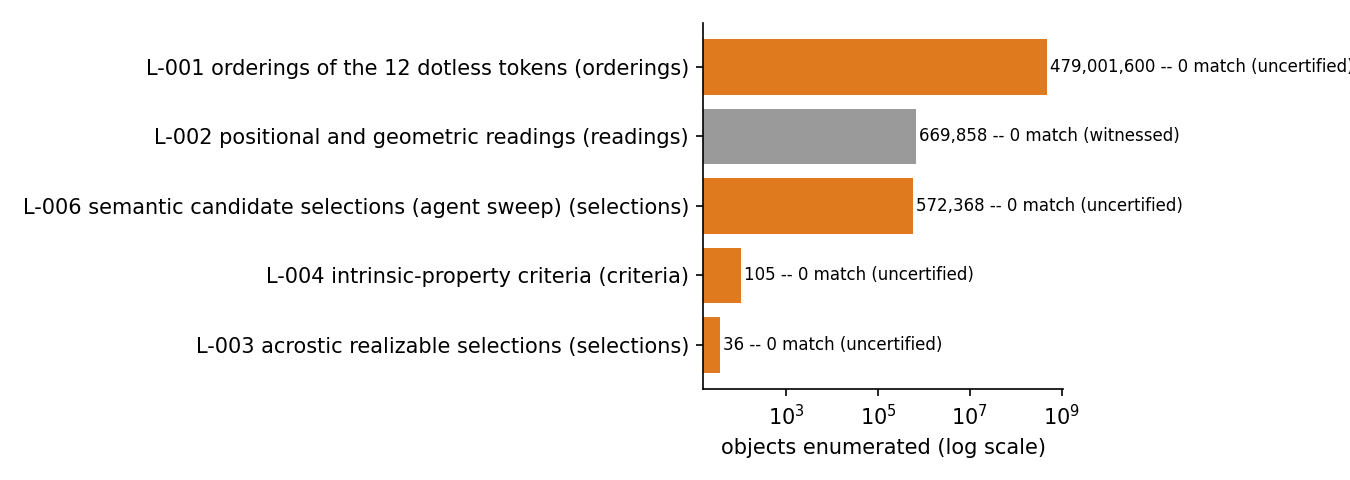
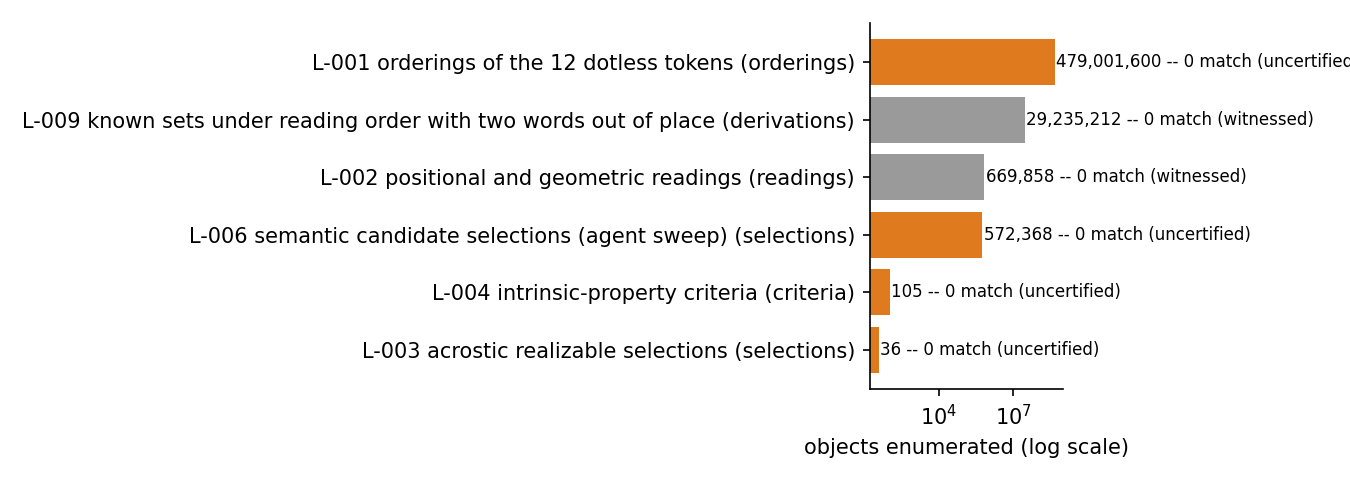
keysa-crack-the-seed: the author's 2023-06-27 replies (all but two words in order, the lock is the selection); 2,084,778 known sets replayed under that order model, 0 match with witnesses; leads re-ranked

diff --git a/2-mid-prizes/keysa-crack-the-seed-369ksats/README.md b/2-mid-prizes/keysa-crack-the-seed-369ksats/README.md
@@ -10,7 +10,9 @@ and unspent 3 years later. The derivation (12 words in the right order to a BIP8
 address) is fully understood and certified. What is missing is the selection rule
 that picks 12 words out of 70: I have exhausted every mechanical and positional
 reading I could enumerate, all negative, and the author's own words point toward a
-short, spoken rule rather than a hidden calculation.
+short, spoken rule rather than a hidden calculation. Her replies of 2023-06-27, which
+I only read on 2026-08-16, settle the order: the 12 words sit on the card in seed order
+except for two, so the whole puzzle is the selection.
 
 ## At a glance
 
@@ -46,6 +48,15 @@ that the wallet was generated by BlueWallet rather than by manual dice rolls
 ("I've never rolled 12 words," 2025-03-05). As late as 2024-11-12 she confirmed the
 prize was still unclaimed: "many tried but so far the sats are still there." Short,
 dated quotes with links are in [clues/author-posts.md](clues/author-posts.md).
+
+Two replies she posted on 2023-06-27, two levels down in the thread under her original
+post, carry the one order statement she has made. At 13:24 UTC: "in this example one
+still wouldn't know which of all those words are the 12 words in the seed phrase
+right?" At 13:32 UTC: "In this example, all the words but two, are in order ;)". The
+same afternoon she added that the 58 decoys are BIP39 words "because the anon set
+would decrease if one includes words not on the list". I read these on 2026-08-16;
+every sweep before that date had assumed either the card order, its reverse, or an
+arbitrary order, and none had tested a reading order with two words out of place.
 
 ![The ciphertext card above a rendered transcription of its 70 tokens in 6 rows, with the 12 dotless tokens outlined](images/01-annotated-card-grid.png)
 *Figure 1. The published card and my transcription of its 70 tokens, with the 12 dotless tokens outlined (source: data/card-tokens.txt, script tools/fig_card_grid.py), 2026-08-16.*
@@ -110,6 +121,11 @@ both correctly rejected. Reproduced 2026-08-16.
 6. The checksum passes at the expected background rate (about 1 in 16) across every
    sweep run against this token set, confirming no bias in the derivation pipeline
    and confirming the checksum cannot discriminate a correct selection here.
+7. The order of the seed is the card's reading order of the 12 selected tokens, except
+   for two words (Keysa, 2023-06-27, `clues/author-posts.md`). That replaces 12! orders
+   per candidate set by 67 (reading order plus one transposition) or about 6,100
+   (reading order with up to two words moved), and puts the whole difficulty on the
+   selection.
 
 ## What has been tested
 
@@ -122,32 +138,42 @@ Full ledger in [analysis/tested.md](analysis/tested.md). Summary:
 | Semantic and mnemonic candidate selections (L-006) | 572,368 selections (439,773 distinct sets) | agent-driven candidate proposals under 114 labeled families, checked against the oracle | 0 match | uncertified: no single search order to plant a witness in | 2026-08-02 |
 | Intrinsic token properties, including 3-6-9 digital roots (L-004) | 105 criteria | test whether any criterion partitions the 70 tokens into exactly 12 | no criterion reaches 12 (closest: 11 or 13) | uncertified: structural computation, not an oracle sweep | 2026-08-02 |
 | Acrostic (initials spell a word) (L-003) | 1,723 composable 12-letter words | subsequence test against the 70 initials | 36 realizable, 0 match | uncertified: self-tested but no formal witness | 2026-08-02 |
+| Every candidate set proposed so far (2,084,778 distinct sets: the positional rules, 8 further positional families, the natural sets, and the whole L-006 agent wave) under reading order plus one transposition, 67 orders each (L-009) | 139,680,327 sequences, 8,730,698 checksum-valid | BIP84 derive and compare | 0 match | yes: 3 synthetic sets with a pre-derived target planted at head, middle and tail, recovered | 2026-08-16 |
+| The 31,088 natural sets (rows, row edges, dotless tokens, windows, column pairs, sub-grids, progressions) under reading order with up to 2 words moved anywhere, about 6,100 orders each (L-009) | 188,500,763 sequences, 11,775,450 checksum-valid | BIP84 derive and compare | 0 match | yes | 2026-08-16 |
+| The same 2,084,778 sets under reversed reading order plus one transposition (L-009) | 139,680,327 sequences, 8,729,064 checksum-valid | BIP84 derive and compare | 0 match | yes | 2026-08-16 |
 
-Cumulative: about 480 million objects enumerated across 5 families (mixed units:
-orderings, readings, selections, criteria, acrostic candidates), 0 matches.
+Cumulative: about 480 million objects enumerated across 5 families through 2026-08-02
+(mixed units: orderings, readings, selections, criteria, acrostic candidates), plus
+468 million ordered sequences and 29.2 million checksum-valid derivations on
+2026-08-16 under the two-words-out-of-order model, 0 matches. Under that model every
+candidate set this folder has ever produced is negative; the selection rule is not
+in any family formulated so far.
 
 ![Horizontal log-scale bars for the 5 tested-hypothesis families, colored by witness status](images/02-coverage-tested-space.png)
-*Figure 2. Coverage of the 5 tested hypothesis families, sized by objects enumerated and colored by witness status (source: data/coverage.csv, script tools/fig_coverage.py), 2026-08-16.*
+*Figure 2. Coverage of the 6 tested hypothesis families, sized by objects enumerated and colored by witness status (source: data/coverage.csv, script tools/fig_coverage.py), 2026-09-03.*
 
 ## Open leads, ranked
 
 1. **Write to the author** (needs a person). Keysa is active and has twice invited
    exactly this: "I would love to know if this method is solid" and "Open to
-   comments." Near zero cost, highest plausible payoff, since the rule is described
-   as short and meant to be spoken aloud.
-2. **Submit argued candidate 12-word orderings** (minutes per candidate set on a
-   rented GPU). Under her own post, a reader frames the puzzle around word order
-   rather than selection, and Keysa's reply engages with counting permutations
-   rather than correcting the framing. Checking one full 12! ordering sweep for a
-   well-argued candidate set costs about 38 seconds on a rented GPU; the bottleneck
-   is proposing the candidate set, not the derivation.
-3. **The two-tokens-per-row bounded sweep** (about 76 minutes on one rented GPU).
-   With the 6 rows confirmed authorial, picking exactly 2 tokens per row gives about
-   3.6 billion candidates after the BIP39 checksum filter, at a measured rate of
-   about 790,000 derivations per second.
-4. **The double-width gap after "mad," and the "369 clock" theme** (needs new
-   information). The only typographic anomaly on the card, and a real anchor in the
-   author's own book, neither of which has produced a working selector yet.
+   comments." Two precise questions now exist: are the two out-of-order words swapped
+   with each other, or each moved somewhere else on the card; and does the "cipher"
+   she tells a trusted person describe positions on the card or the meaning of the
+   words.
+2. **A new selection family, replayed under the two-words-out-of-order model**
+   (minutes on a CPU). Every set proposed so far, 2,084,778 distinct sets, is negative
+   under reading order plus one transposition, and the 31,088 natural sets under up
+   to two moved words. Any new family of candidate sets costs milliseconds per set to
+   replay; the whole cost is in proposing sets the card supports.
+3. **The double-width gap after "mad," and the "369 clock" theme** (needs new
+   information). The gap is the only typographic anomaly on the card and is what a
+   cut-and-paste that moved two words would leave; no selector has come out of either
+   observation.
+4. **Two tokens per row, under the corrected order model** (days on a rented GPU; not
+   proposed as is). The row family is legitimate (the 6 rows are typed), but 5.7e10
+   sets times 67 orders is about 2.4e11 derivations after the checksum filter, about
+   3.5 days at 790,000 derivations/s, and the author's words argue for a rule on the
+   selection rather than a blind row sweep. It needs a row rule first.
 
 ## Files in this folder
 
@@ -170,4 +196,7 @@ orderings, readings, selections, criteria, acrostic candidates), 0 matches.
 
 - Keysa, original announcement, X, 2023-06-26: https://x.com/SimplestBTCBook/status/1673197111603519490
 - Keysa on Nostr: https://njump.me/npub1dpna3xwwddnhhzg9ycpvlcz2ze0jdwm2rf3eqd2lf9leaewtq7tqhw0ef2
+- Keysa, reply "all the words but two, are in order", X, 2023-06-27: https://x.com/SimplestBTCBook/status/1673685712498049025
+- Keysa, reply "one still wouldn't know which of all those words are the 12", X, 2023-06-27: https://x.com/SimplestBTCBook/status/1673683632546873344
+- Keysa, reply "these are all BIP 39 words, because the anon set would decrease", X, 2023-06-27: https://x.com/SimplestBTCBook/status/1673720563318112256
 - "The Simplest Bitcoin Book Ever Written," Keysa: https://simplestbitcoinbook.com

diff --git a/2-mid-prizes/keysa-crack-the-seed-369ksats/analysis/leads.md b/2-mid-prizes/keysa-crack-the-seed-369ksats/analysis/leads.md
@@ -19,49 +19,43 @@ What would kill it: no reply, or a reply that does not narrow anything (she has
 stated before that she does not want to spoil the puzzle for others).
 Cost: needs a person; no compute cost.
 
-## 2. Submit argued candidate 12-word orderings (the "order, not selection" reading)
+## 2. A new selection family, replayed under the two-words-out-of-order model
 
-Under the original announcement, a reader frames the puzzle's difficulty in terms of
-knowing the 12 words but not their order ("620 quintillion guesses even if they knew
-the exact 24 words, but not the correct order"). Keysa's own reply engages with
-counting permutations for a 12-word case rather than correcting the framing to
-"you would first need to know which 12 words." Read together with her stated design
-goal (a rule short enough to say out loud), this suggests her own mental model may
-treat the selection as easier to work out than the order.
+The earlier version of this lead read the puzzle as "order, not selection", on the
+strength of Keysa engaging with a reader's permutation count. Her own replies two
+levels down in the same thread say the opposite (`clues/author-posts.md`,
+2023-06-27): "one still wouldn't know which of all those words are the 12", and "all
+the words but two, are in order". So the order is the card's reading order up to two
+words, and the lock is the selection.
 
-The practical consequence: for any well-argued candidate set of 12 tokens, checking
-every one of its 12! = 479,001,600 orderings costs about 38 seconds on a rented GPU
-(measured at about 0.79 million derivations per second), against 36.8 minutes on a
-CPU for the one set already tried in full (L-001, `analysis/tested.md`). The
-bottleneck for this lead is producing a well-reasoned candidate set of 12 tokens,
-not the permutation search itself.
+Under that model every candidate set this folder has ever produced is negative
+(L-009 in `analysis/tested.md`: 2,084,778 distinct sets under reading order plus one
+transposition, 31,088 natural sets under up to two moved words, and the reversed
+reading order). Replaying a set costs milliseconds, so a new family of sets is cheap
+to test and the whole cost is in proposing it. What such a family would be built on:
+the card's typed rows, the 20-pixel gap after `mad` (the first token), and the 3-6-9
+theme of her book, none of which has produced a selector yet.
 
-What would confirm it: any 12-token candidate set whose full 12! ordering sweep,
-run through `tools/oracle.py --stdin`, returns a MATCH.
-What would kill it: exhausting every argued candidate set without a match; this
-lead does not have a natural end state the way a bounded space does, since new
-candidate sets can always be proposed.
-Cost: minutes per candidate set on a rented GPU; the cost driver is generating
-candidates, not derivation.
+What would confirm it: any new 12-token set whose 67 (or about 6,100) orders,
+run through `tools/oracle.py --stdin`, return a MATCH.
+What would kill it: nothing bounded; the lead stays open until a family is proposed.
+Cost: minutes per family on a CPU; the 12! GPU sweeps of the earlier reading are no
+longer useful.
 
-## 3. The "two tokens per row" bounded sweep
+## 3. Two tokens per row, under the corrected order model
 
-The 6 rows are confirmed to be typed line breaks rather than a display artifact
-(see the row-structure measurement in `analysis/tested.md`), which makes any rule
-defined per row a legitimate candidate family. One specific rule not yet fully
-covered by the positional sweep in L-002 is: pick exactly 2 of the tokens from each
-row, in some order, giving 12 tokens total. The space is C(12,2)^4 times C(11,2)^2,
-about 5.7e10 raw combinations of token pairs (rows of 12 tokens each contribute 66
-ways to choose 2, rows of 11 contribute 55), narrowing to about 3.6e9 after the
-BIP39 checksum filter (1 in 16). At the measured rate of about 790,000 derivations
-per second on one GPU, checking the checksum-valid subset costs about 76 minutes.
+The 6 rows are typed line breaks (see the row-structure measurement in
+`analysis/tested.md`), so a rule that picks 2 tokens from each row is a legitimate
+family. Under the old "arbitrary order" reading it cost about 76 minutes on one GPU
+(3.6e9 candidates after the checksum filter). Under reading order plus one
+transposition it costs 67 times more: about 2.4e11 derivations after the checksum
+filter, about 3.5 days at 790,000 derivations/s on one GPU. The per-row-pair readings
+already run (the left and right column pairs among the natural sets in L-009, and
+the 13 pair types in the ebreen fork's L-010) are negative.
 
-What would confirm it: a MATCH from `tools/oracle.py` on any candidate drawn from
-this space.
-What would kill it: running the full checksum-filtered space to completion with 0
-matches, with a witness planted at the head, middle, and tail of the search order.
-Cost: about 76 minutes on one rented GPU; this is the best remaining
-information-to-cost ratio once leads 1 and 2 are exhausted.
+What would confirm it: a MATCH from `tools/oracle.py` on a candidate from this space.
+What would kill it: the full space with witnesses at head, middle and tail, 0 match.
+Cost: days of rented GPU; not proposed without a row rule that narrows which pair.
 
 ## 4. The double-width gap after "mad", and the "369 clock" theme
 

diff --git a/2-mid-prizes/keysa-crack-the-seed-369ksats/analysis/tested.md b/2-mid-prizes/keysa-crack-the-seed-369ksats/analysis/tested.md
@@ -130,6 +130,65 @@ ledger. No single planted witness applies to this family, since it is not a sing
 enumerated space with one search order; I mark it uncertified in the summary table
 on that basis, while noting the volume of testing.
 
+## L-009: every known candidate set under "reading order, all but two words"
+
+Keysa wrote on 2023-06-27, in a sub-thread under her original post, "In this example,
+all the words but two, are in order ;)" and, 8 minutes earlier, that one "still
+wouldn't know which of all those words are the 12" (`clues/author-posts.md`). The
+order of the seed is therefore the card's reading order of the 12 selected tokens,
+except for two words. Two order models cover that sentence: reading order plus one
+transposition of two words (66 transpositions plus the identity, 67 orders per set),
+and reading order with up to two words moved anywhere (about 6,100 orders per set).
+None of the sweeps in L-001 to L-006 tested a transposition: they used the card
+order, its reverse, the reading order and its reverse only.
+
+Method: replay every candidate set the folder had produced under those two order
+models: 196,000 sets from the positional rules, 1,170,000 sets from 8 further
+positional families (row-by-column sub-grids, per-row 3-6-9 digit and mirror rules,
+arithmetic progressions plus a free token, multiple takes of 3, 3 and 6, 12 groups
+of 5 to 7 tokens, circular walks from every start, key-token initials, removal
+rounds), the 31,088 natural sets (rows of 12, row edges, dotless tokens, windows,
+left and right column pairs, sub-grids, progressions) and all 877,000 sets from the
+L-006 agent wave: 2,084,778 distinct sets. Derivation BIP84 `m/84'/0'/0'/0/0` and
+`0/1`, checksum filter first, then the certified oracle.
+
+| Campaign | Sets | Order model | Sequences | Checksum-valid derivations | Result |
+|---|---|---|---|---|---|
+| 1 | 2,084,778 | reading order plus one transposition | 139,680,327 | 8,730,698 | 0 match |
+| 2 | 31,088 natural sets | reading order, up to two words moved | 188,500,763 | 11,775,450 | 0 match |
+| 3 | 2,084,778 | reversed reading order plus one transposition | 139,680,327 | 8,729,064 | 0 match |
+
+Witness: 3 synthetic sets, each with a target address derived in advance from one
+order of the same model, planted at the head, middle and tail of each run and
+recovered by the normal path. The first reversed-order pass planted a witness built
+on the direct reading and recovered 0 of 3, which is what the witness is for; it was
+re-run with witnesses on the normal path. Rate: CPU only, elapsed time not recorded.
+Date: 2026-08-16.
+
+What this closes: under the author's own order statement, no candidate set this
+folder has produced is the seed. What it leaves open is the selection rule itself,
+which is not an enumerable space. As a scale reference, all C(70,12) sets in reading
+order are about 1e13, or 6.6e11 derivations after the checksum filter, and the two
+words out of order multiply that by 67; that is not a sweep, it is the reason the
+next step is information from the author.
+
+## Contributed (fork, not a pull request): ordered readings of the typed rows, 2026-08-17
+
+A fork by ebreen (branch `cursor/keysa-spoken-cipher-9cc6`) records four families of
+ordered readings run through this folder's oracle on 2026-08-17: every-k walks for
+k = 5 to 12, a 69-token stream that drops `mad`, 3-6-9 take-then-skip, two-column
+reads of the padded 6x12 grid and keyword-mapped columns (9,513 sequences, 643
+checksum-valid); self-referential and keyed jump walks (5,808 sequences, 388 valid);
+speakable row-block readings, first, last or middle n tokens of m rows, column takes
+on row groups, half-card concatenations (7,560 sequences, 466 valid); and per-row
+pairs of 13 types under every row permutation and per-row flip (5,203,141 sequences,
+312,753 valid). All 0 match. Recorded as reported, not re-run here; the fork describes
+constructed sequences re-found in its own candidate set as the witness for the first
+and third families and marks the jump family uncertified. Under the 2023-06-27 order
+statement most of these orders are no longer candidates. The same fork read, on the
+2024 Nostr repost of the card, the note's title "369369 Sats Guessing Game" and the
+BlueWallet header "Crack the Seed Game HD SegWit", a second confirmation of BIP84.
+
 ## Typographic measurement (not a hypothesis test)
 
 A pixel-level measurement on the binarized card image found that the gap after the

diff --git a/2-mid-prizes/keysa-crack-the-seed-369ksats/clues/author-posts.md b/2-mid-prizes/keysa-crack-the-seed-369ksats/clues/author-posts.md
@@ -52,3 +52,35 @@ permutations for the 12-word case rather than correcting the framing to "you wou
 first need to know which 12 words": "Well then, I reckon this strategy is a secure
 way to store a seed when traveling... How many guesses would be needed if it was
 done with a 12-word seed?"
+
+## Reply thread, 2023-06-27 (sub-threads under the original post)
+
+These replies sit two levels down, under the "620 quintillion" comment, and do not
+show when only the first-level replies are expanded; I read them on 2026-08-16.
+
+> 13:24 UTC, [status 1673683632546873344](https://x.com/SimplestBTCBook/status/1673683632546873344):
+> "Whether they are or aren't out of order though, in this example one still wouldn't
+> know which of all those words are the 12 words in the seed phrase right? What I am
+> hoping is that this is a secure method to carry one's seed while traveling (whether
+> for leisure or while fleeing)"
+
+> 13:32 UTC, [status 1673685712498049025](https://x.com/SimplestBTCBook/status/1673685712498049025):
+> "In this example, all the words but two, are in order ;)"
+
+> 15:50 UTC, [status 1673720563318112256](https://x.com/SimplestBTCBook/status/1673720563318112256),
+> after a reader noted that words outside the BIP39 list would make the puzzle harder:
+> "Right. These are all BIP 39 words, because the anon set would decrease if one
+> includes words not on the list"
+
+Read together: the 12 seed words sit on the card in seed order except for two, and in
+her own framing the lock is which 12 words, not their order. This is the only order
+statement she has made; her 2023-07-05 "The only hint is that it's a 12 word seed"
+does not count it.
+
+## 2023-06-26, on the dots, to a reader who read them as a binary code
+
+> 05:58 UTC, [status 1673209167643832321](https://x.com/SimplestBTCBook/status/1673209167643832321):
+> "You know what, I'll tell you, because I am testing something and that's not it, so
+> no hint there, was just some typos I didn't clean up"
+
+Third statement on the dots, after "you can ignore the dots" and "the dots are random".
